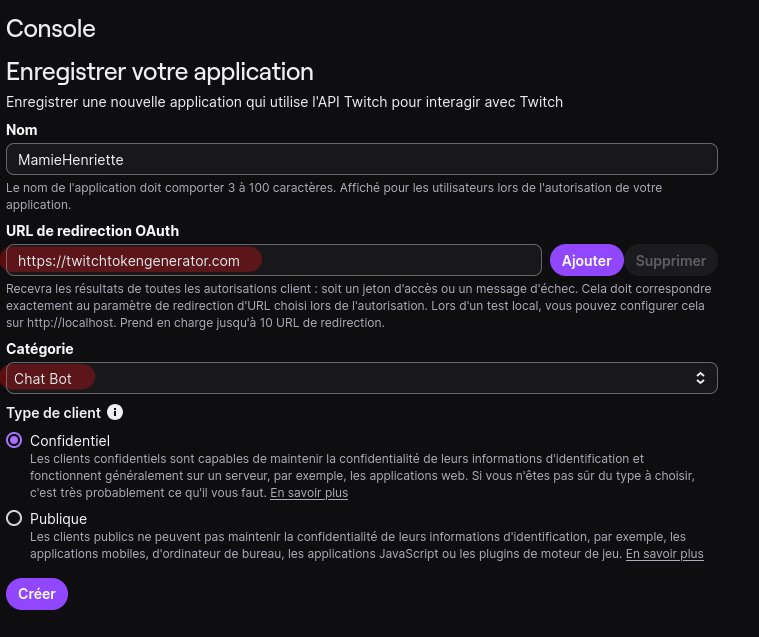
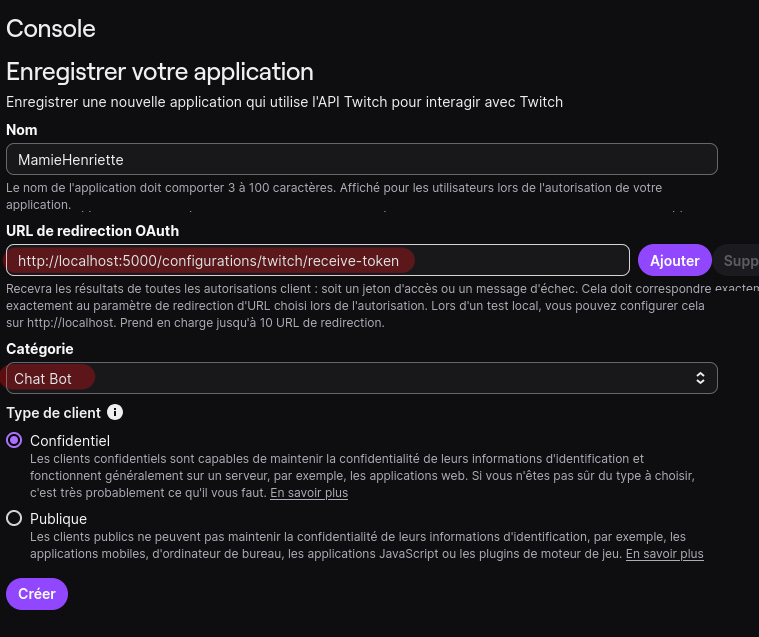
Gestion de l'authentification pour le access token et refresh_token

Changed region(s): [[0.0, 0.3579, 0.5455, 0.4474], [0.697, 0.3579, 1.0, 0.4474], [0.9394, 0.4474, 1.0, 0.4772]]

diff --git a/webapp/templates/twitch-aide.html b/webapp/templates/twitch-aide.html
@@ -3,14 +3,15 @@
 {% block content %}
 <h1>Procédure de configuration de Twitch</h1>
 <p>
-	<strong>Avant toute chose, activez l'authentification à deux facteurs (2FA) :</strong> 
-	<a href="https://help.twitch.tv/s/article/two-factor-authentication?language=en_US" target="_blank">Guide officiel Twitch pour la 2FA</a>
+	<strong>Avant toute chose, activez l'authentification à deux facteurs (2FA) :</strong>
+	<a href="https://help.twitch.tv/s/article/two-factor-authentication?language=en_US" target="_blank">Guide officiel
+		Twitch pour la 2FA</a>
 </p>
 <p>
 	Rendez-vous sur <a href="https://dev.twitch.tv/console" target="_blank">la console d'applications Twitch</a> et
 	ajoutez une application. Renseignez :
 <ul>
-	<li>URL de redirection : https://twitchtokengenerator.com</li>
+	<li>URL de redirection : {{token_redirect_url}}</li>
 	<li>Catégorie : Chat Bot</li>
 </ul>
 </p>
@@ -25,25 +26,10 @@
 <img src="/static/img/twitch-api-02.jpg">
 
 <p>
-	Ensuite, rendez-vous sur <a href="https://twitchtokengenerator.com/" target="_blank">twitchtokengenerator.com</a> et
-	sélectionnez <strong>Custom Scope Target</strong>. Dans la section <strong>Use My Client Secret and Client
-		ID</strong>, renseignez les deux champs.
+	Ensuite, retourner sur la page de <a href="{{url_for('openConfigurations')}}">Configuration</a>, apres avoir
+	enregistret le <strong>Client ID</strong> et le <strong>Client Secret</strong>, cliquer sur le lien <strong>Obtenir
+		token et refresh token</strong>. Si tout se passe bien les champs <strong>Access Token</strong> et
+	<strong>Refresh Token</strong> sont rempli.
 </p>
-
-<img src="/static/img/twitch-api-03.jpg">
-
-<p>
-	Ensuite, dans la section <strong>Available Token Scopes</strong>, cochez <em>chat:read</em> et <em>chat:edit</em>.
-	Puis, dans la même section, cliquez sur <strong>Generate token</strong>.
-</p>
-
-<img src="/static/img/twitch-api-04.jpg">
-
-<p>
-	Suivez la procédure et vous avez votre <strong>Access Token</strong> et <strong>Refresh Token</strong>
-</p>
-
-<img src="/static/img/twitch-api-05.jpg">
-
 
 {% endblock %}

diff --git a/webapp/templates/configurations.html b/webapp/templates/configurations.html
@@ -18,10 +18,6 @@
 	<input name="twitch_client_id" type="text" value="{{ configuration.getValue('twitch_client_id') }}" />
 	<label for="twitch_client_secret">Client Secret</label>
 	<input name="twitch_client_secret" type="text" value="{{ configuration.getValue('twitch_client_secret') }}" />
-	<label for="twitch_access_token">Access Token</label>
-	<input name="twitch_access_token" type="text" value="{{ configuration.getValue('twitch_access_token') }}" />
-	<label for="twitch_refresh_token">Refresh Token</label>
-	<input name="twitch_refresh_token" type="text" value="{{ configuration.getValue('twitch_refresh_token') }}" />
 	<label for="twitch_channel">Chaîne à rejoindre</label>
 	<input name="twitch_channel" type="text" value="{{ configuration.getValue('twitch_channel') }}"
 		placeholder="#machinTruc" />
@@ -29,6 +25,17 @@
 	<p>
 		<a href="{{ url_for('twitchConfigurationHelp') }}">Aide</a>
 	</p>
+	{% if configuration.getValue('twitch_client_secret') and configuration.getValue('twitch_client_id') %}
+	<p>
+		<a href="{{ url_for('twitchRequestToken') }}">Obtenir token et refresh token</a>
+	</p>
+	<label for="twitch_access_token">Access Token</label>
+	<input name="twitch_access_token" type="text" value="{{ configuration.getValue('twitch_access_token') }}"
+		readonly="readonly" />
+	<label for="twitch_refresh_token">Refresh Token</label>
+	<input name="twitch_refresh_token" type="text" value="{{ configuration.getValue('twitch_refresh_token') }}"
+		readonly="readonly" />
+	{% endif %}
 	<p>Nécessite un redémarrage</p>
 </form>
 

diff --git a/webapp/twitch_auth.py b/webapp/twitch_auth.py
@@ -1,0 +1,45 @@
+import logging
+
+from flask import request, redirect, url_for
+from twitchAPI.twitch import Twitch
+from twitchAPI.type import  TwitchAPIException
+from twitchAPI.oauth import UserAuthenticator
+
+from database import db
+from database.helpers import ConfigurationHelper
+from twitchbot import USER_SCOPE
+from webapp import webapp
+
+
+auth: UserAuthenticator
+
+@webapp.route("/configurations/twitch/request-token") 
+async def twitchRequestToken(): 
+	global auth
+	url = f'{request.url_root[:-1]}{url_for('twitchReceiveToken')}'
+	helper = ConfigurationHelper()
+	twitch = await Twitch(helper.getValue('twitch_client_id'), helper.getValue('twitch_client_secret'))
+	auth = UserAuthenticator(twitch, USER_SCOPE, url=url)
+	return redirect(auth.return_auth_url())
+
+@webapp.route("/configurations/twitch/receive-token") 
+async def twitchReceiveToken():
+	global auth
+	state = request.args.get('state')
+	code = request.args.get('code')
+	if state != auth.state :
+		logging('bad returned state')
+		return redirect(url_for('openConfigurations'))
+	if code == None :
+		logging('no returned state')
+		return redirect(url_for('openConfigurations'))
+		
+	try:
+		token, refresh = await auth.authenticate(user_token=code)
+		helper = ConfigurationHelper()
+		helper.createOrUpdate('twitch_access_token', token)
+		helper.createOrUpdate('twitch_refresh_token', refresh)
+		db.session.commit()
+	except TwitchAPIException as e:
+		logging(e)
+	return redirect(url_for('openConfigurations'))

diff --git a/webapp/configurations.py b/webapp/configurations.py
@@ -27,4 +27,4 @@ def updateConfiguration():
 
 @webapp.route("/configurations/twitch/help") 
 def twitchConfigurationHelp():
-	return render_template("twitch-aide.html")
+	return render_template("twitch-aide.html", token_redirect_url = f'{request.url_root[:-1]}{url_for('twitchReceiveToken')}')

diff --git a/webapp/__init__.py b/webapp/__init__.py
@@ -2,4 +2,4 @@ from flask import Flask
 
 webapp = Flask(__name__)
 
-from webapp import commandes, configurations, index, humeurs, messages, moderation, protondb
+from webapp import commandes, configurations, index, humeurs, messages, moderation, protondb, twitch_auth
